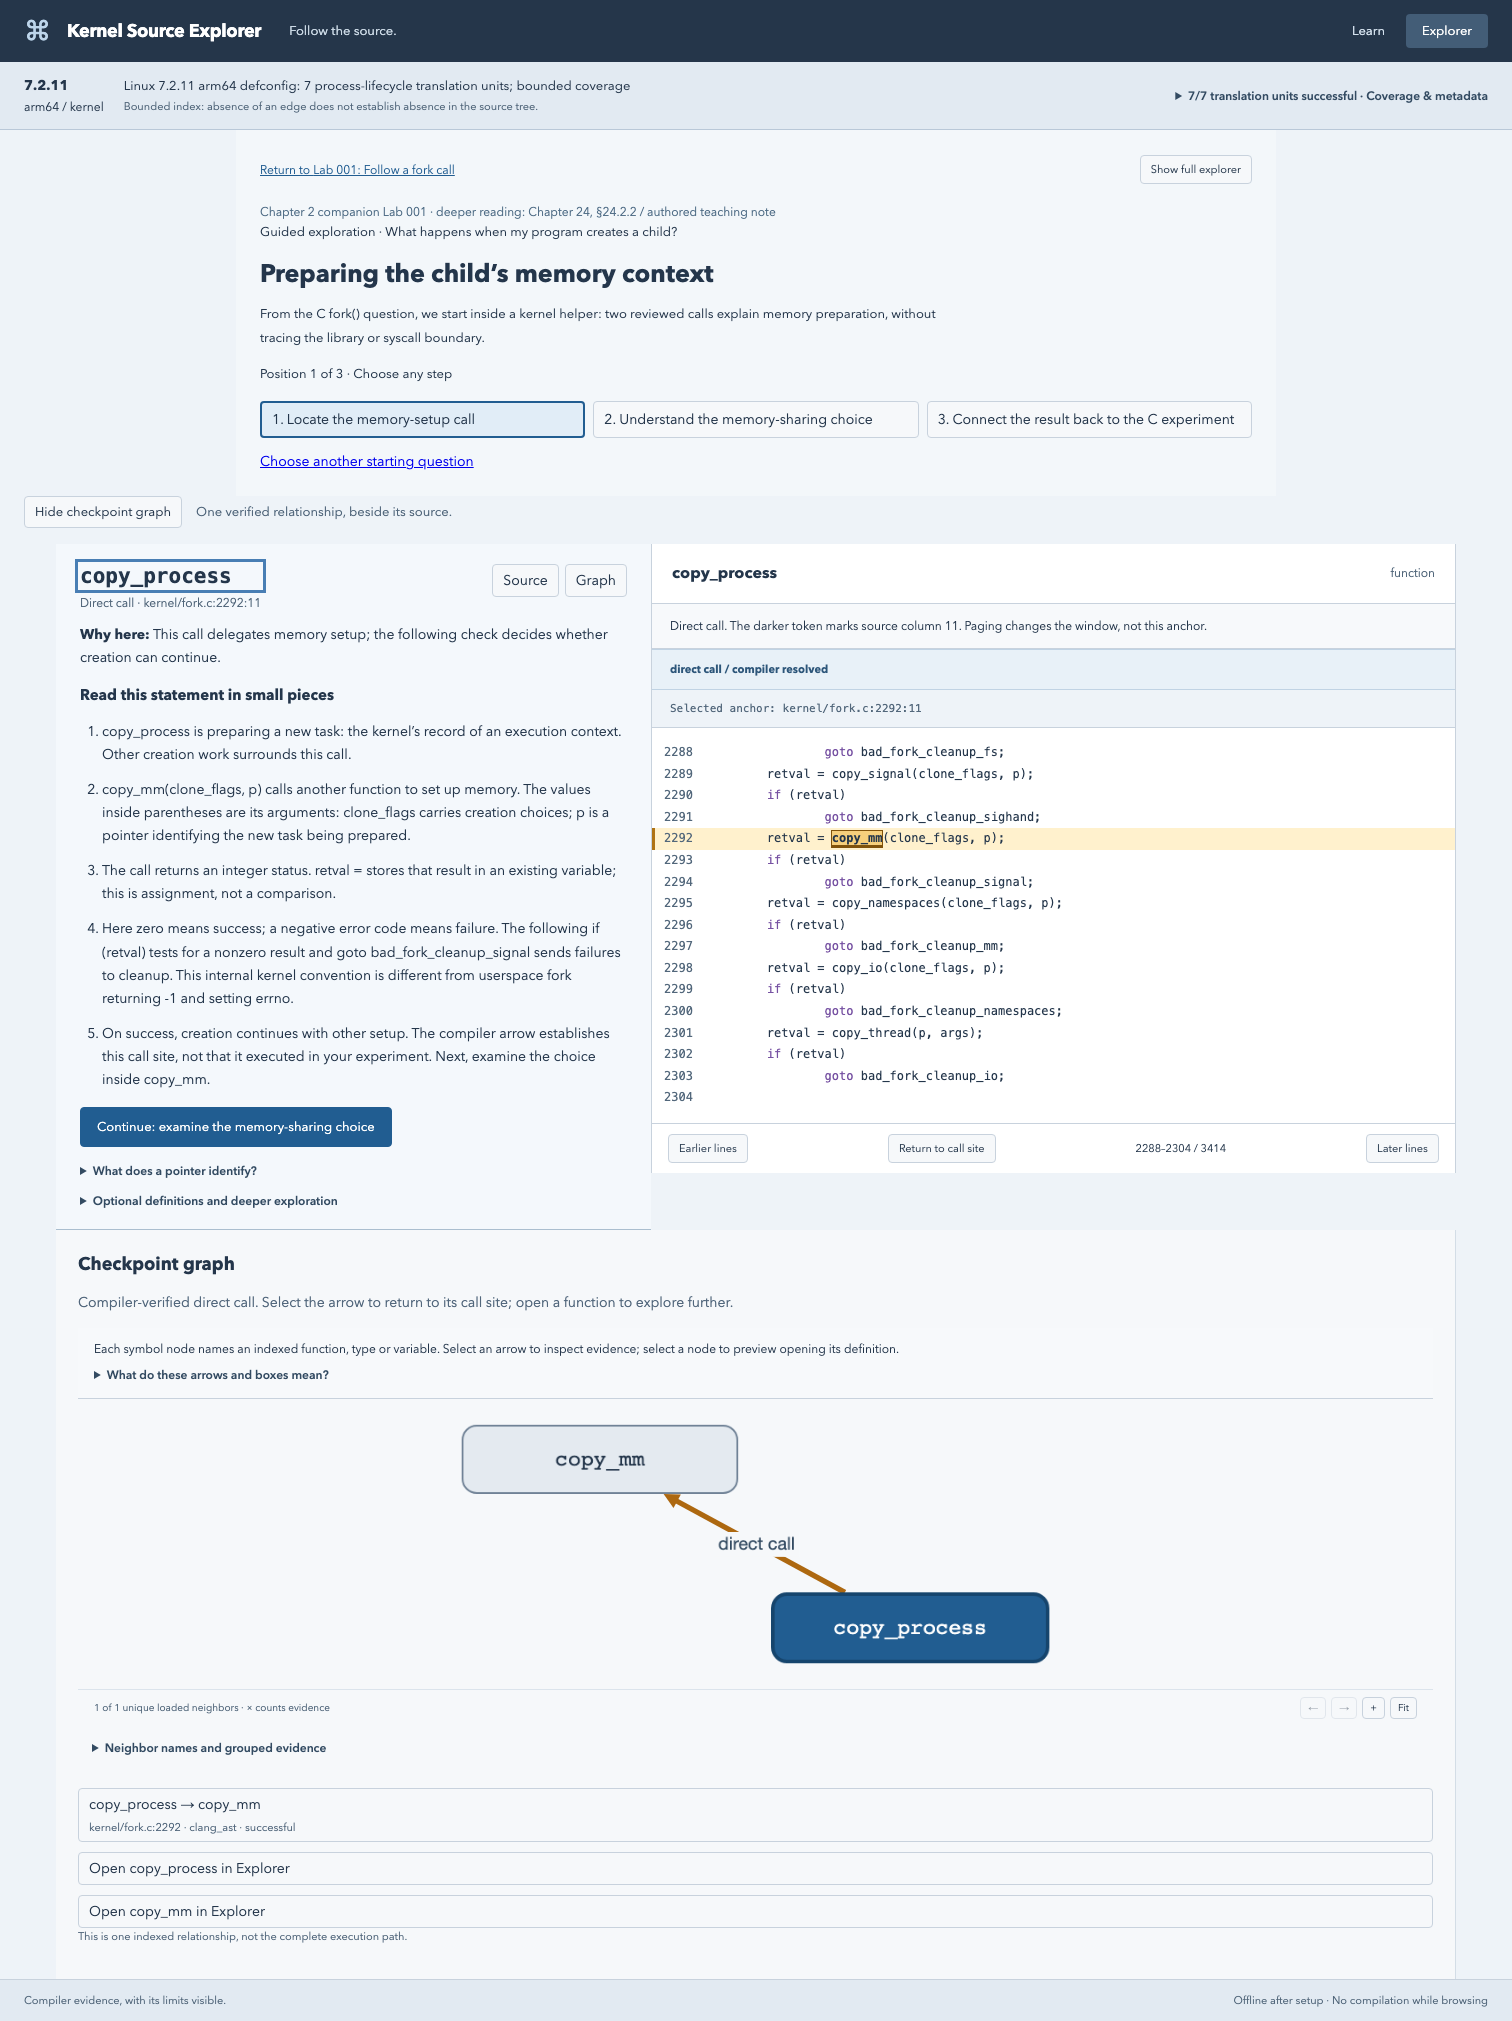
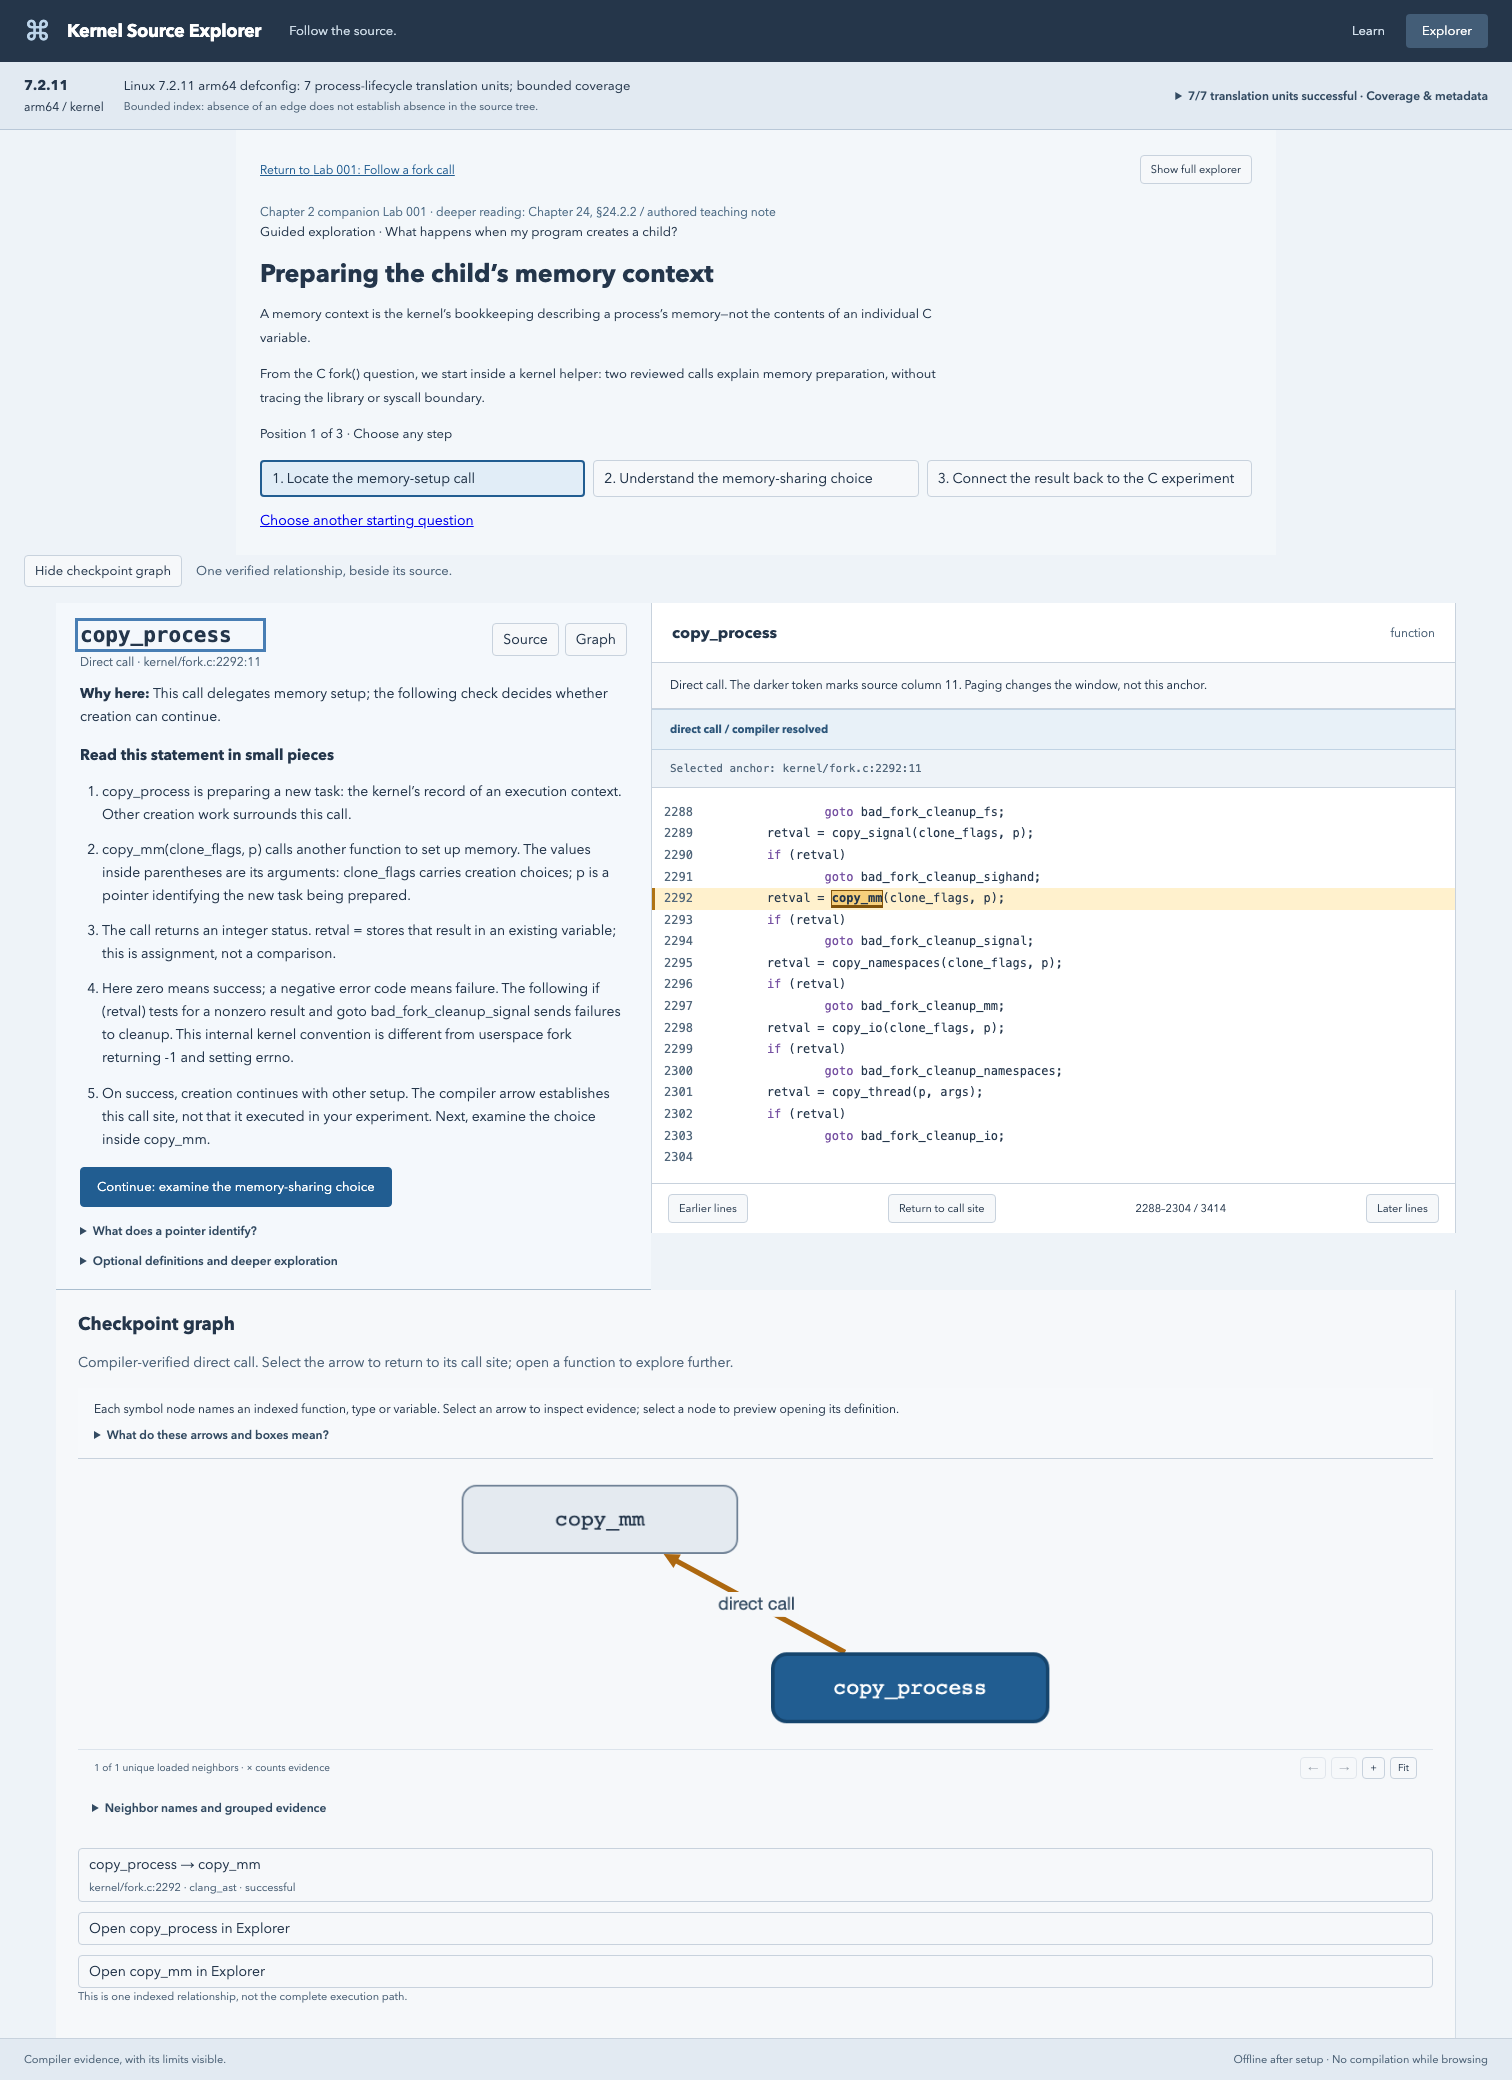
Clarify memory context and group the sharing-choice explanation

diff --git a/web/kernel-e2e/explorer-journey.spec.ts b/web/kernel-e2e/explorer-journey.spec.ts
@@ -21,6 +21,12 @@ test("memory journey connects two reviewed calls, an optional detour, and the or
   await expect(first).toContainText("not a trace through the C library", {
     timeout: 15000,
   });
+  await expect(first).toContainText(
+    "bookkeeping describing a process’s memory",
+  );
+  expect(await first.locator("p").first().textContent()).toContain(
+    "not the contents of an individual C variable",
+  );
   await first.getByRole("link", { name: "Start guided visit" }).focus();
   await page.keyboard.press("Enter");
   await expect(page.locator(".source-line.current")).toContainText(
@@ -60,6 +66,23 @@ test("memory journey connects two reviewed calls, an optional detour, and the or
     path: "../docs/memory-journey-choice.png",
     fullPage: true,
   });
+  await expect(page.locator(".memory-explanation-group h4")).toHaveText([
+    "Existing memory",
+    "Sharing requested?",
+    "Separate context",
+  ]);
+  const names = page.locator(".memory-names");
+  await expect(names.locator("table")).toBeVisible();
+  await names.locator("summary").focus();
+  await page.keyboard.press("Enter");
+  await expect(names.locator("table")).toBeHidden();
+  await page
+    .getByRole("button", { name: "Hide checkpoint graph", exact: true })
+    .click();
+  await page
+    .getByRole("button", { name: "Show checkpoint graph", exact: true })
+    .click();
+  await expect(names.locator("table")).toBeHidden();
   const secondURL = page.url();
   await page.reload();
   await expect(page.locator(".source-line.current mark")).toHaveText("dup_mm");
@@ -69,11 +92,7 @@ test("memory journey connects two reviewed calls, an optional detour, and the or
   await expect(page.locator(".memory-reading")).toContainText(
     "number of operands changes the meaning",
   );
-  await page
-    .getByText("How the names connect across the two functions", {
-      exact: true,
-    })
-    .click();
+  await expect(page.locator(".memory-names")).toHaveAttribute("open", "");
   await expect(page.getByRole("table")).toContainText(
     "Caller and callee do not need the same variable name",
   );
@@ -317,6 +336,11 @@ test("phone memory path preserves a chosen C origin and saved bookmark through p
     .focus();
   await page.keyboard.press("Enter");
   await expect(page.locator(".source-line.current mark")).toHaveText("dup_mm");
+  const names = page.locator(".memory-names");
+  await expect(names.locator("table")).toBeVisible();
+  await names.locator("summary").focus();
+  await page.keyboard.press("Enter");
+  await expect(names.locator("table")).toBeHidden();
   const source = page.locator(".source-pane");
   const end = Number(
     await page.locator(".source-line").last().getAttribute("data-line"),
@@ -331,9 +355,15 @@ test("phone memory path preserves a chosen C origin and saved bookmark through p
     .getByRole("button", { name: "Return to call site", exact: true })
     .click();
   await expect(page.locator(".source-line.current mark")).toHaveText("dup_mm");
+  await expect(names.locator("table")).toBeHidden();
+  await names.locator("summary").focus();
+  await page.keyboard.press("Enter");
+  await expect(names.locator("table")).toBeVisible();
   await page.evaluate(() => {
     document.body.style.zoom = "1.5";
   });
+  await expect(page.locator(".memory-names table")).toBeVisible();
+  await names.screenshot({ path: test.info().outputPath("memory-names-phone.png") });
   await page.getByRole("button", { name: "Source", exact: true }).focus();
   await page.keyboard.press("Enter");
   await expect(source.locator(".pane-heading h2")).toBeFocused();

diff --git a/web/src/ExplorerOrientation.tsx b/web/src/ExplorerOrientation.tsx
@@ -85,7 +85,7 @@ export function ExplorerOrientation({
   const evidenceHere = !edge || sameLocation(focus, edge);
   const definition = locations.find((l) => l.is_definition);
   const kind = sourceCategory(selected, focus, edge, locations);
-  if (focused && exact && reading?.steps) {
+  if (focused && exact && (reading?.steps || reading?.groups)) {
     const path = exact.lesson.guided_path;
     const index =
       path?.steps.findIndex((s) => s.checkpoint === exact.checkpoint.id) ?? -1;
@@ -123,11 +123,22 @@ export function ExplorerOrientation({
           aria-label="Statement breakdown"
         >
           <h3>Read this statement in small pieces</h3>
-          <ol>
-            {reading.steps.map((step) => (
-              <li key={step}>{step}</li>
-            ))}
-          </ol>
+          {reading.groups ? (
+            reading.groups.map((group) => (
+              <section className="memory-explanation-group" key={group.title}>
+                <h4>{group.title}</h4>
+                {group.steps.map((step) => (
+                  <p key={step}>{step}</p>
+                ))}
+              </section>
+            ))
+          ) : (
+            <ol>
+              {reading.steps?.map((step) => (
+                <li key={step}>{step}</li>
+              ))}
+            </ol>
+          )}
         </section>
         <div className="explorer-actions recommended-continuation">
           {checkpoint ? (
@@ -161,7 +172,7 @@ export function ExplorerOrientation({
           </details>
         ))}
         {reading.names && (
-          <details>
+          <details className="memory-names" key={exact.checkpoint.id} open>
             <summary>How the names connect across the two functions</summary>
             <table>
               <caption>Names in this visit</caption>

diff --git a/web/src/explorer.css b/web/src/explorer.css
@@ -415,3 +415,26 @@
     order: 2;
   }
 }
+.memory-explanation-group {
+  margin-top: 18px;
+  padding-top: 12px;
+  border-top: 1px solid var(--border);
+}
+.memory-explanation-group h4 {
+  font-size: 15px;
+  margin: 0 0 8px;
+}
+.memory-explanation-group p {
+  font-size: 14px;
+  line-height: 1.65;
+  margin-bottom: 12px;
+}
+.memory-names th,
+.memory-names td {
+  overflow-wrap: anywhere;
+}
+.memory-names th:first-child {
+  width: 25%;
+  min-width: 7ch;
+  overflow-wrap: normal;
+}

diff --git a/web/src/learningTypes.ts b/web/src/learningTypes.ts
@@ -17,6 +17,7 @@ export type ExplorerStart = {
   terms: string[];
 };
 export type CheckpointReading = {
+  groups?: { title: string; steps: string[] }[];
   steps?: string[];
   prerequisites?: { title: string; text: string }[];
   names?: string[][];
@@ -99,6 +100,7 @@ export type Experiment = {
 };
 export type Topic = {
   guided_path?: {
+    definition?: string;
     title: string;
     steps: { checkpoint: string; title: string }[];
     connection_title: string;

diff --git a/web/src/ExplorerWelcome.tsx b/web/src/ExplorerWelcome.tsx
@@ -35,6 +35,9 @@ export function ExplorerWelcome({
             return (
               <article key={lesson.id}>
                 <h2>{start.question}</h2>
+                {lesson.guided_path?.definition && (
+                  <p>{lesson.guided_path.definition}</p>
+                )}
                 {start.purpose && <h3>{start.purpose}</h3>}
                 <p>{start.introduction || start.situation}</p>
                 <details>

diff --git a/web/src/main.tsx b/web/src/main.tsx
@@ -998,6 +998,7 @@ function App() {
             <h1>{memoryPath?.guided_path?.title || guided.checkpoint.title}</h1>
             {memoryPath ? (
               <>
+                <p>{memoryPath.guided_path?.definition}</p>
                 <p>
                   From the C fork() question, we start inside a kernel helper:
                   two reviewed calls explain memory preparation, without tracing

diff --git a/tests/test_learning.py b/tests/test_learning.py
@@ -280,7 +280,9 @@ def test_memory_journey_keeps_existing_selectors_and_exposes_the_actual_branch()
     assert [s['checkpoint'] for s in lesson['guided_path']['steps']] == ['memory-setup', 'memory-choice']
     assert lesson['guided_path']['comparison_segment'] in {s['id'] for s in lesson['walkthrough']}
     assert [c['selector']['callee'] for c in lesson['checkpoints']] == ['copy_mm', 'dup_mm']
-    assert all(c['reading']['steps'] and c['reading']['prerequisites'] for c in lesson['checkpoints'])
+    assert all((c['reading'].get('steps') or c['reading'].get('groups')) and c['reading']['prerequisites'] for c in lesson['checkpoints'])
+    assert [g['title'] for g in lesson['checkpoints'][1]['reading']['groups']] == ['Existing memory', 'Sharing requested?', 'Separate context']
+    assert 'not the contents of an individual C variable' in lesson['guided_path']['definition']
     index = Path('data/learning/index.sqlite')
     if not index.exists():
         import pytest

diff --git a/docs/MEMORY_JOURNEY_PASS.md b/docs/MEMORY_JOURNEY_PASS.md
@@ -41,3 +41,11 @@ Reproduce with `npm run build --prefix web`, `.venv/bin/pytest -q`, `npm run tes
 ## Limits
 
 Only this memory journey has the connected three-position path. Other questions retain their existing reviewed annotations and free navigation. Coverage remains seven translation units and 14 reviewed checkpoints; unavailable or mismatched datasets cannot supply this guided source visit, while reading remains available. Source-window positions and evidence survive routes, but exact pixel scroll and disclosure-open state are not persisted across refresh. No new C experiments or runtime Linux execution were needed or performed; previous runtime reports remain historical, and the indexed version is not the host's running kernel. Safari and a full screen-reader audit were not performed.
+
+## Small teaching refinements (October 17, 2026)
+
+Added an immediate, shared definition of memory context as the kernel's bookkeeping describing a process's memory, distinct from an individual C variable's contents. It appears before the introductory explanation on the starting card and in the guided header for direct entries. Checked this wording against `copy_mm`'s record selection/assignment and `dup_mm`'s documented record/pointer contract in the same pinned source; the existing physical-page/copy-on-write limit remains explicit.
+
+The second checkpoint now presents **Existing memory**, **Sharing requested?**, and **Separate context** as three connected groups of short paragraphs. They preserve the existing task/pointer relationships, bit versus address operations, authored ordinary-fork connection, null failure check, integer versus pointer results, and evidence limits. The names table starts expanded, stays collapsible by keyboard, and does not reopen during ordinary rerenders/source paging after a manual collapse. Fresh entry/refresh restores the open default. No persistent disclosure flags, bookmarks, dependencies, experiments, selectors or coverage changed.
+
+Validation for this refinement on macOS: **31 Python checks, 33 fixture/learning checks, and 10 kernel-index Chromium journeys passed**, along with the TypeScript/Vite production build and `git diff --check`. Strengthened the existing journey checks for definition ordering, the three connected groups, initially open names, keyboard collapse, preserved collapse through graph rerenders and phone source paging, and reopening on fresh entry. Existing definition detours, history, URLs, return-to-C, book/saved-lab independence and source evidence checks still pass. Reviewed refreshed desktop and 390px phone screenshots, including the expanded table at 150% zoom. The names column now keeps identifiers readable rather than breaking them into individual letters. The existing bundle-size and deprecation warnings remain; no new runtime experiment, native-browser audit or novice study was performed. Browser storage remains isolated with generic profiles; the unrelated local review file remains untouched. No commit or push was performed.

diff --git a/docs/LEARNING.md b/docs/LEARNING.md
@@ -158,3 +158,5 @@ A lesson may add `guided_path` to its existing `explorer_start` and reviewed che
 Introduce the visit's narrower responsibility before entry (`explorer_start.purpose` / `introduction`), and say where the trace starts. Each checkpoint may supply `reading.steps`, local `prerequisites`, and a scoped `names` table. Show the essential steps beside source by default in the focused path; leave prerequisite reminders, full definitions, implementation detail and provenance optional. Explain actual arguments, assignments, branch conditions, failure handling and result types. Never substitute a userspace errno convention for an internal kernel return contract. Review both paths of a decision and distinguish binary bit operations from unary address operations.
 
 Path positions are navigation, never completion. The existing lesson/checkpoint identifiers select the reviewed step; `stage=connection` selects the final authored connection. `full=true` is a deliberate definition/free-exploration detour, retaining that position and `returnTo`. All parameters must restore on refresh and history, and invalid positions must offer a readable route back to the starting questions. Changing steps or comparing C variables must not update book position or the explicitly saved lab. Availability still depends on the pinned dataset and resolved evidence, not the presence of prose. See [the memory journey handoff](MEMORY_JOURNEY_PASS.md).
+
+For a checkpoint with a longer essential explanation, `reading.groups` can replace `reading.steps`: each group has a descriptive `title` and short `steps` paragraphs, rendered together without tabs. Keep the sequence connected and retain the source/return contracts. The memory journey's shared `guided_path.definition` is shown before its introductory explanation, including direct source entry. Its names table is a native disclosure initially open on entry; a manual collapse remains effective through rerenders on that checkpoint. This is a display default, with no storage field or learning-progress meaning.
